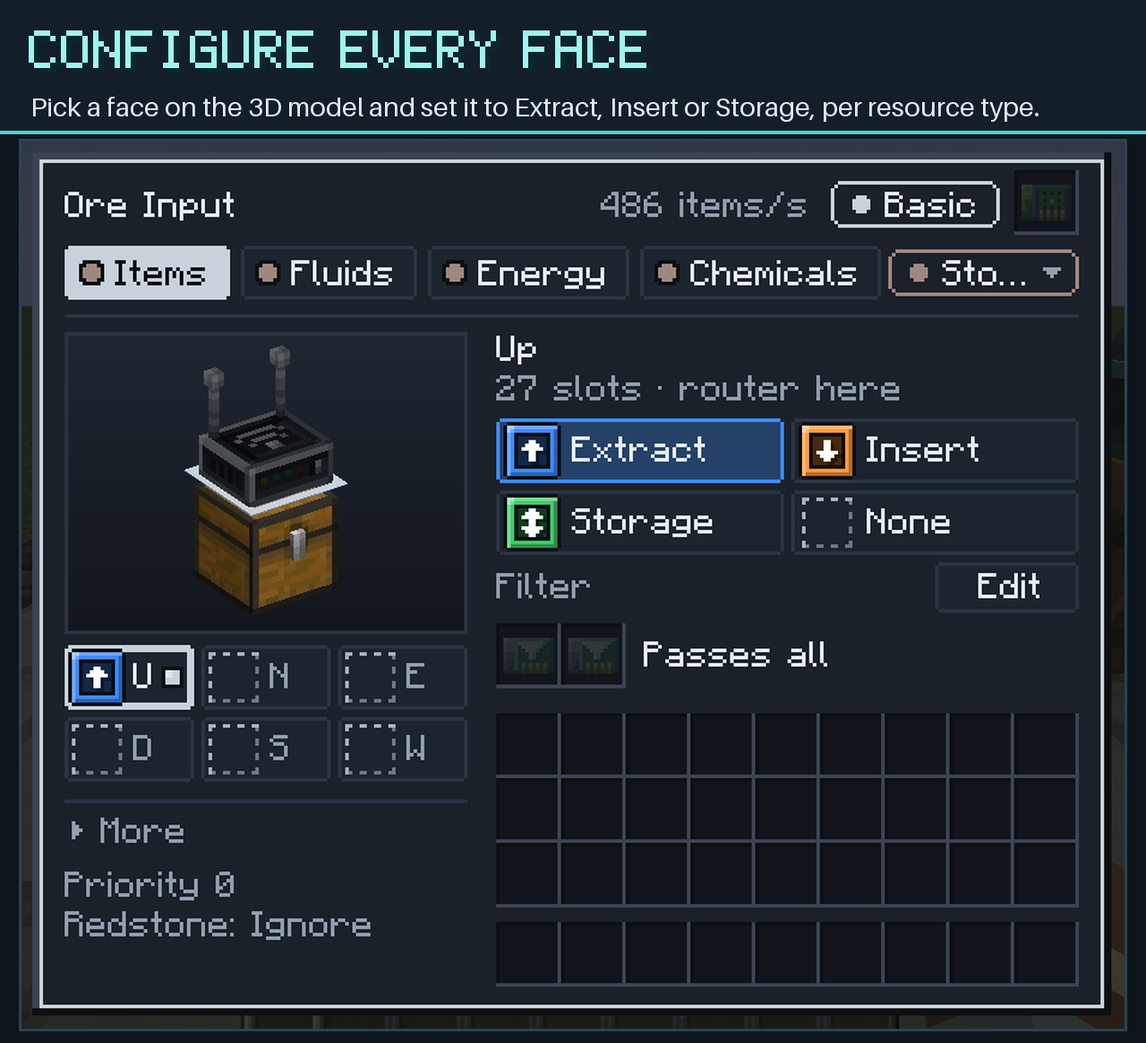
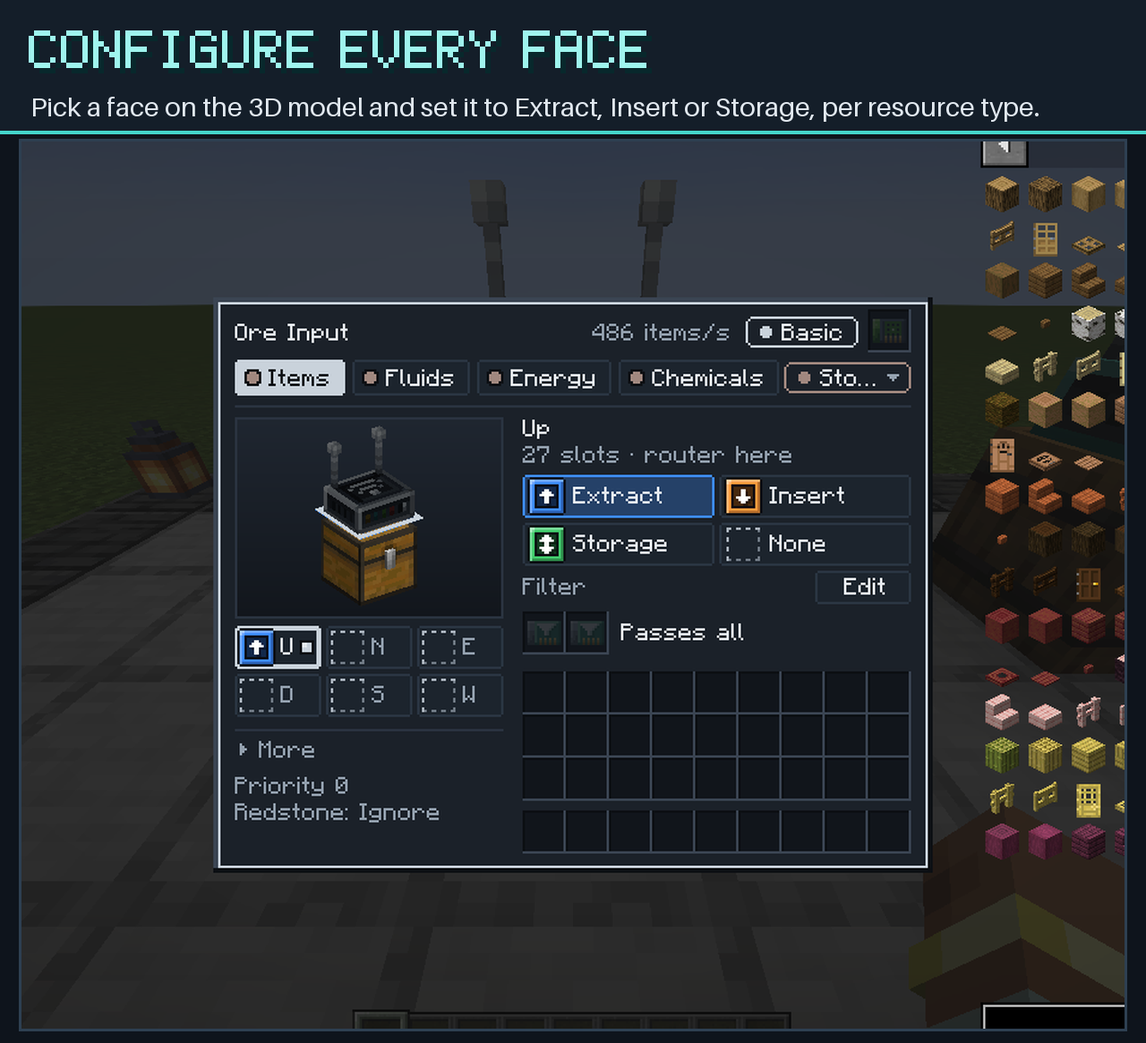
Versão 1.0.0: changelog, descrição e imagens do CurseForge
Vitrine com os quatro armazenamentos, a tela do Baú e as abas Tags e
Regra do filtro; imagens novas da descrição e changelog da 1.0.0.

diff --git a/src/main/java/io/github/matheusanbs/wirelessautomate/client/DevEndToEnd.java b/src/main/java/io/github/matheusanbs/wirelessautomate/client/DevEndToEnd.java
@@ -101,6 +101,8 @@ import io.github.matheusanbs.wirelessautomate.storage.StorageBatteryBlockEntity;
 import io.github.matheusanbs.wirelessautomate.storage.StorageBlock;
 import io.github.matheusanbs.wirelessautomate.storage.StorageChestBlockEntity;
 import io.github.matheusanbs.wirelessautomate.storage.StorageKind;
+import io.github.matheusanbs.wirelessautomate.network.Chemicals;
+import io.github.matheusanbs.wirelessautomate.storage.StorageChemicalTankBlockEntity;
 import io.github.matheusanbs.wirelessautomate.storage.StorageTankBlockEntity;
 import net.neoforged.neoforge.fluids.FluidStack;
 
@@ -992,6 +994,7 @@ public final class DevEndToEnd {
     private static final List<BlockPos> showRouters = new ArrayList<>();
     private static BlockPos showInput;
     private static BlockPos showFurnace;
+    private static final List<BlockPos> showStorage = new ArrayList<>();
 
     /**
      * Fotos da página do CurseForge: uma pequena fábrica (fornalhas acesas com roteadores dos quatro
@@ -1056,11 +1059,50 @@ public final class DevEndToEnd {
             click(widget(byMessage(face(Direction.UP)), "face Cima"));
         }, () -> find(byMessage(Component.translatable("gui.wirelessautomate.router.filter.edit"))) != null, () -> "Editar"));
         list.add(capture("s4-roteador-fornalha"));
-        list.add(new Step("abrir o filtro", STEP_TIMEOUT_MS,
-                () -> click(widget(byMessage(Component.translatable("gui.wirelessautomate.router.filter.edit")), "Editar")),
-                () -> Minecraft.getInstance().screen instanceof FilterScreen, () -> "tela " + describe(Minecraft.getInstance().screen)));
+        list.add(new Step("abrir o filtro", STEP_TIMEOUT_MS, () -> {
+            UUID playerId = Minecraft.getInstance().player.getUUID();
+            onServer(server -> {
+                showcaseInventory(server, server.getPlayerList().getPlayer(playerId));
+                return null;
+            });
+            click(widget(byMessage(Component.translatable("gui.wirelessautomate.router.filter.edit")), "Editar"));
+        }, () -> Minecraft.getInstance().screen instanceof FilterScreen, () -> "tela " + describe(Minecraft.getInstance().screen)));
         list.add(capture("s5-filtro"));
+        list.add(new Step("filtro: tags do minério de ferro", STEP_TIMEOUT_MS, () -> {
+            FilterScreen screen = filterScreen();
+            screen.previewInspect(new ItemStack(Items.RAW_IRON));
+            List<String> labels = screen.candidateLabels();
+            for (String label : List.of("#c:raw_materials", "#c:raw_materials/iron")) {
+                if (labels.contains(label)) {
+                    screen.previewCheck(labels.indexOf(label));
+                }
+            }
+            int[] row = screen.candidateCenter(Math.max(0, labels.indexOf("#c:raw_materials")));
+            moveMouse(row[0], row[1]);
+        }, () -> filterScreen().tab() == FilterScreen.Tab.TAGS, () -> "aba " + filterScreen().tab()));
+        list.add(wait("prévia da tag", 5));
+        list.add(capture("s5b-filtro-tags"));
+        list.add(new Step("filtro: regra de reparo", STEP_TIMEOUT_MS, () -> {
+            filterScreen().previewRule(ItemRule.EMPTY.withFlag(ItemRule.Property.ENCHANTED, true)
+                    .withDurability(java.util.Optional.of(new ItemRule.Durability(false, 50))));
+            moveMouse(0, 0);
+        }, () -> filterScreen().tab() == FilterScreen.Tab.RULE, () -> "aba " + filterScreen().tab()));
+        list.add(wait("inventário aceso", 5));
+        list.add(capture("s5c-filtro-regra"));
         list.add(close("fechar o filtro"));
+        // Os quatro armazenamentos do mod, cheios, com roteadores.
+        list.add(showCamera("câmera nos armazenamentos", 13.5, 2.2, -1.2, 180f, 30f));
+        list.add(wait("armazenamentos", 40));
+        list.add(capture("s9-armazenamentos"));
+        list.add(showCamera("perto do Baú", 11, 0, -3, 180f, 40f));
+        list.add(new Step("interface de volta 3", STEP_TIMEOUT_MS, () -> Minecraft.getInstance().options.hideGui = false,
+                () -> true, () -> "interface"));
+        list.add(new Step("abrir o Baú Wireless", STEP_TIMEOUT_MS, () -> useOn(showStorage.get(0)),
+                () -> Minecraft.getInstance().screen instanceof StorageListScreen screen && screen.shownCount() > 20,
+                () -> "tela " + describe(Minecraft.getInstance().screen)));
+        list.add(wait("lista do Baú", 10));
+        list.add(capture("s10-bau"));
+        list.add(close("fechar o Baú"));
         // Tablet: lista e mapa.
         list.add(new Step("Tablet na mão (vitrine)", STEP_TIMEOUT_MS, () -> {
             UUID playerId = Minecraft.getInstance().player.getUUID();
@@ -1182,8 +1224,104 @@ public final class DevEndToEnd {
             router(server, buffer.above()).setMode(ResourceType.ITEM, Direction.UP, PortMode.BOTH);
             router(server, output.above()).setMode(ResourceType.ITEM, Direction.UP, PortMode.INSERT);
             refillShowcase(level);
+            showcaseStorage(server, level, storage.id());
             return null;
         });
+    }
+
+    /**
+     * Os quatro armazenamentos do mod numa fileira a leste da fábrica, num piso próprio: Baú
+     * Ultimate com dezenas de tipos e milhões de itens, Tanque, Bateria e Tanque Químico (com o
+     * Mekanism), cada um com um roteador em cima.
+     */
+    private static void showcaseStorage(MinecraftServer server, ServerLevel level, UUID network) {
+        for (int x = 9; x <= 18; x++) {
+            for (int z = -7; z <= -2; z++) {
+                boolean edge = x == 9 || x == 18 || z == -7 || z == -2;
+                level.setBlockAndUpdate(showBase.offset(x, -1, z),
+                        (edge ? Blocks.POLISHED_DEEPSLATE : Blocks.SMOOTH_STONE).defaultBlockState());
+            }
+        }
+        StorageKind[] kinds = {StorageKind.CHEST, StorageKind.TANK, StorageKind.BATTERY, StorageKind.CHEMICAL_TANK};
+        RouterTier[] tiers = {RouterTier.ULTIMATE, RouterTier.ELITE, RouterTier.ADVANCED, RouterTier.ELITE};
+        String[] names = {"Main Storage", "Lava Tank", "Base Battery", "Hydrogen"};
+        showStorage.clear();
+        for (int i = 0; i < kinds.length; i++) {
+            if (kinds[i] == StorageKind.CHEMICAL_TANK && !Chemicals.LOADED) {
+                continue;
+            }
+            BlockPos pos = showBase.offset(11 + 2 * i, 0, -5);
+            level.setBlockAndUpdate(pos, ModBlocks.STORAGE.get(kinds[i]).get().defaultBlockState()
+                    .setValue(RouterBlock.TIER, tiers[i]));
+            showStorage.add(pos);
+            switch (level.getBlockEntity(pos)) {
+                case StorageChestBlockEntity chest -> {
+                    Item[] items = {Items.COBBLESTONE, Items.IRON_INGOT, Items.GOLD_INGOT, Items.COPPER_INGOT, Items.DIAMOND,
+                            Items.EMERALD, Items.REDSTONE, Items.LAPIS_LAZULI, Items.COAL, Items.QUARTZ, Items.OAK_LOG,
+                            Items.SPRUCE_LOG, Items.BIRCH_LOG, Items.DIRT, Items.SAND, Items.GRAVEL, Items.GLASS,
+                            Items.RAW_IRON, Items.RAW_GOLD, Items.RAW_COPPER, Items.NETHERITE_INGOT, Items.ANCIENT_DEBRIS,
+                            Items.OBSIDIAN, Items.GLOWSTONE_DUST, Items.AMETHYST_SHARD, Items.BONE, Items.STRING,
+                            Items.GUNPOWDER, Items.ENDER_PEARL, Items.BLAZE_ROD, Items.SLIME_BALL, Items.WHEAT,
+                            Items.CARROT, Items.POTATO, Items.SUGAR_CANE, Items.BAMBOO, Items.KELP, Items.CLAY_BALL,
+                            Items.FLINT, Items.LEATHER, Items.FEATHER, Items.EGG, Items.APPLE, Items.TORCH};
+                    long amount = 12_600_000L;
+                    for (Item item : items) {
+                        chest.storage().insert(new ItemStack(item), amount, false);
+                        amount = Math.max(1, amount * 7 / 10);
+                    }
+                }
+                case StorageTankBlockEntity tank -> {
+                    tank.storage().insert(new FluidStack(Fluids.LAVA, 1), 48_000_000L, false);
+                    tank.storage().insert(new FluidStack(Fluids.WATER, 1), 120_000_000L, false);
+                }
+                case StorageBatteryBlockEntity battery -> battery.store().insert(2_500_000_000L, false);
+                case StorageChemicalTankBlockEntity chemical ->
+                        chemical.storage().insert(ResourceLocation.parse("mekanism:hydrogen"), 64_000_000L, false);
+                default -> {
+                }
+            }
+            placeShowRouter(server, level, pos, "ultimate", names[i], network);
+            RouterBlockEntity router = router(server, pos.above());
+            ResourceType type = switch (kinds[i]) {
+                case CHEST -> ResourceType.ITEM;
+                case TANK -> ResourceType.FLUID;
+                case BATTERY -> ResourceType.ENERGY;
+                case CHEMICAL_TANK -> ResourceType.CHEMICAL;
+            };
+            router.setMode(type, Direction.UP, PortMode.BOTH);
+        }
+    }
+
+    /**
+     * Inventário de exemplo para as fotos do filtro: ferramentas encantadas gastas e novas, uma
+     * comum gasta, livro encantado e minérios, para a regra "Encantado + durabilidade < 50%" acender
+     * só as que vão para o reparo.
+     */
+    private static void showcaseInventory(MinecraftServer server, ServerPlayer player) {
+        var enchantments = server.registryAccess().lookupOrThrow(Registries.ENCHANTMENT);
+        ItemStack wornPick = new ItemStack(Items.DIAMOND_PICKAXE);
+        wornPick.enchant(enchantments.getOrThrow(net.minecraft.world.item.enchantment.Enchantments.FORTUNE), 3);
+        wornPick.setDamageValue(1300);
+        ItemStack newPick = new ItemStack(Items.DIAMOND_PICKAXE);
+        newPick.enchant(enchantments.getOrThrow(net.minecraft.world.item.enchantment.Enchantments.EFFICIENCY), 5);
+        ItemStack wornSword = new ItemStack(Items.NETHERITE_SWORD);
+        wornSword.enchant(enchantments.getOrThrow(net.minecraft.world.item.enchantment.Enchantments.SHARPNESS), 5);
+        wornSword.setDamageValue(1500);
+        ItemStack plainWorn = new ItemStack(Items.IRON_PICKAXE);
+        plainWorn.setDamageValue(200);
+        ItemStack wornChest = new ItemStack(Items.DIAMOND_CHESTPLATE);
+        wornChest.enchant(enchantments.getOrThrow(net.minecraft.world.item.enchantment.Enchantments.PROTECTION), 4);
+        wornChest.setDamageValue(400);
+        ItemStack[] items = {wornPick, newPick, wornSword, plainWorn, wornChest,
+                net.minecraft.world.item.EnchantedBookItem.createForEnchantment(new net.minecraft.world.item.enchantment.EnchantmentInstance(
+                        enchantments.getOrThrow(net.minecraft.world.item.enchantment.Enchantments.MENDING), 1)),
+                new ItemStack(Items.RAW_IRON, 48), new ItemStack(Items.RAW_GOLD, 23), new ItemStack(Items.COAL, 64),
+                new ItemStack(Items.IRON_ORE, 12), new ItemStack(Items.DEEPSLATE_DIAMOND_ORE, 3), new ItemStack(Items.TORCH, 40)};
+        player.getInventory().clearContent();
+        for (int i = 0; i < items.length; i++) {
+            player.getInventory().setItem(9 + i, items[i]);
+        }
+        player.getInventory().setItem(0, new ItemStack(Items.DIAMOND_SWORD));
     }
 
     /** Entrada cheia e destinos vazios, para a tela mostrar itens passando. */
@@ -1619,7 +1757,14 @@ public final class DevEndToEnd {
 
     /** Alguns quadros depois (mouse fora da tela, sem dicas), salva a captura. */
     private static Step capture(String file) {
-        return new Step("captura " + file, STEP_TIMEOUT_MS, () -> moveMouse(0, 0), () -> {
+        return new Step("captura " + file, STEP_TIMEOUT_MS, () -> {
+            moveMouse(0, 0);
+            if (SHOWCASE != null) {
+                // vitrine: sem avisos de conquista nem mensagens do chat por cima das telas
+                Minecraft.getInstance().getToasts().clear();
+                Minecraft.getInstance().gui.getChat().clearMessages(false);
+            }
+        }, () -> {
             if (stepTicks < 6) {
                 return false;
             }

diff --git a/scripts/curseforge/gerar_imagens.py b/scripts/curseforge/gerar_imagens.py
@@ -191,9 +191,18 @@ DESTAQUES = [
     ("feature-2-router", "Configure every face",
      "Pick a face on the 3D model and set it to Extract, Insert or Storage, per resource type.",
      VITRINE / "s3-roteador.png", (180, 30, 1100, 770)),
-    ("feature-3-filters", "Unlimited filters",
-     "Exact items, tags and whole mods, whitelist or blacklist, with stock limits. JEI drag and drop.",
-     VITRINE / "s5-filtro.png", (230, 30, 1050, 770)),
+    ("feature-3-filters", "Tags in one click",
+     "Put any item in the inspector to see and check all its tags, or search every tag in the game.",
+     VITRINE / "s5b-filtro-tags.png", (270, 120, 1010, 680)),
+    ("feature-8-rules", "Property rules",
+     "Any enchanted item, tools under 50% durability... and your inventory lights up.",
+     VITRINE / "s5c-filtro-regra.png", (270, 120, 1010, 680)),
+    ("feature-9-storage", "Storage of its own",
+     "Wireless Chest, Tank, Battery and Chemical Tank: billions per operation between them.",
+     VITRINE / "s9-armazenamentos.png", (230, 250, 1110, 640)),
+    ("feature-10-chest", "Wireless Chest",
+     "Unlimited item types in a searchable, resizable list. Keeps everything when broken.",
+     VITRINE / "s10-bau.png", (365, 140, 910, 660)),
     ("feature-5-area", "Link whole areas at once",
      "The Linker and the Configurator work on a marked area: one click for a whole factory.",
      VITRINE / "s2-vinculador-area.png", (60, 250, 1220, 620)),

diff --git a/docs/progresso.md b/docs/progresso.md
@@ -6,7 +6,7 @@ Legenda: ✅ pronto e testado · 🟡 parcial · ⬜ não começado
 
 ## Resumo
 
-**Etapa atual (8/10/2026): 0.1.0 publicada no CurseForge (ID 1732160); 0.1.1 pronta no `main` com a auditoria de performance aplicada, falta enviar.** Build com 101 testes JUnit e 115 + 5 GameTests (comuns + químicos) passando, e2e OK (308 linhas) depois de todas as mudanças.
+**Etapa atual (8/10/2026): 1.0.0 pronta no `main`, a versão final segundo o dono, falta enviar ao CurseForge (ID 1732160; lá está a 0.1.0).** A 1.0 junta a 0.1.1 (auditoria de performance), os armazenamentos do mod e o filtro v2. Build com 105 JUnit e 148 + 7 GameTests (comuns + químicos) passando, e2e OK (411 passos) e vitrine refeita.
 
 O motor move itens, fluidos e energia por redes, com prioridade, round-robin, redstone, vazão e alcance por tier, destinos dormindo e orçamento de tempo por tick, já otimizado pelo benchmark. Cada aba do roteador escolhe a sua rede. Há tela do roteador (visor 3D, faces, filtro, cartões, upgrade), filtros com tela e Cartão de Filtro, JEI opcional, receitas vanilla, upgrade de chunk loading, Tablet de rede (lista, mapa, estatísticas, redes, grupos com pausar), Vinculador com modo Área, abas marcadas (inclusive Químicos) e desvincular, e Configurador sem tela (pincel e colar em área na mesma máquina, todas as abas ou um tipo só). Roteador colocado nasce sem rede. Químicos do Mekanism, livro-guia do GuideME e texturas por script também estão prontos. Falta: o teste manual do JEI, AE2/RS2 e o balanceamento das receitas.
 
@@ -39,11 +39,11 @@ Feitos: Tablet de rede (`network/NodeIndex.java`, `menu/Tablet*`, `client/Tablet
 
 ## Próximo passo
 
-1. Enviar a 0.1.1 ao CurseForge: gerar o jar (`./gradlew build`, sai em `build/libs/wirelessautomate-0.1.1.jar`), changelog em `docs/curseforge/changelog-0.1.1.md` (já com a seção de performance). Ao lançar: NeoForge, 1.21.1, Java 21, Client and Server; a descrição vem de `docs/curseforge/descricao.md`.
+1. Enviar a 1.0.0 ao CurseForge: o jar é `build/libs/wirelessautomate-1.0.0.jar`; changelog em `docs/curseforge/changelog-1.0.0.md` (a 0.1.1 nunca foi enviada, então cole também o de `changelog-0.1.1.md` ou junte os dois). Ao lançar: NeoForge, 1.21.1, Java 21, Client and Server, Release. Descrição em `docs/curseforge/descricao.md`: as imagens novas (`feature-3-filters`, `feature-8-rules`, `feature-9-storage`, `feature-10-chest`) estão com o nome do arquivo no lugar do link; suba-as no CurseForge e troque pelos links. As fotos vêm de `WA_SHOWCASE=run/showcase ./gradlew runClient` e `python scripts/curseforge/gerar_imagens.py`.
 2. Rodar o `./scripts/bench.sh` na máquina local para ter os números de antes e depois da auditoria lá também (os de `docs/benchmark.md` são do container da nuvem).
 3. Testar no jogo os químicos com máquinas de verdade do Mekanism (lembrar de ligar as faces delas com a ferramenta de configuração do Mekanism) e ver as texturas novas.
 4. Depois: balanceamento das receitas, atalhos de AE2/RS2, e o teste num ATM10 real com o jar de `build/libs/`.
-5. **0.2: armazenamento do mod**, no `main` (o jar gerado agora já inclui o Baú; para enviar a 0.1.1 sem ele, gere o jar do commit `6c3a35d`). Os quatro estão prontos (Baú, Tanque, Bateria e Tanque Químico). O Baú: tiers com capacidade pela config (`storage.chestCapacity`), atalho no roteador (Baú → Baú numa chamada por tipo; Baú ↔ inventário comum em pilhas, sem varrer o destino), visão `IItemHandler`, tela em lista com busca (`@mod`), ordenação e cliques, filtro de entrada (o estoque vira "guardar até N"), quebrar e colocar com o conteúdo e o filtro, upgrade pelos Cartões no mundo e na bancada (também no JEI), comparador, receita vanilla, página no guia, README, 12 GameTests e a seção do Baú no e2e. Tanque, Bateria e Tanque Químico no mesmo molde (base `StorageBlockEntity`, `KeyedStorage<K>`, tela em lista genérica e a da Bateria), sem atalho novo no motor: as APIs de fluido e energia já passam até 2^31 por chamada e a de químico é em `long`. Falta: os armazenamentos no `DevScreenshot` e na vitrine do CurseForge, o changelog da 0.2 e testar no jogo com o Mekanism de verdade (recipientes de químico na tela).
+5. **Armazenamento do mod (entrou na 1.0).** Os quatro estão prontos (Baú, Tanque, Bateria e Tanque Químico). O Baú: tiers com capacidade pela config (`storage.chestCapacity`), atalho no roteador (Baú → Baú numa chamada por tipo; Baú ↔ inventário comum em pilhas, sem varrer o destino), visão `IItemHandler`, tela em lista com busca (`@mod`), ordenação e cliques, filtro de entrada (o estoque vira "guardar até N"), quebrar e colocar com o conteúdo e o filtro, upgrade pelos Cartões no mundo e na bancada (também no JEI), comparador, receita vanilla, página no guia, README, 12 GameTests e a seção do Baú no e2e. Tanque, Bateria e Tanque Químico no mesmo molde (base `StorageBlockEntity`, `KeyedStorage<K>`, tela em lista genérica e a da Bateria), sem atalho novo no motor: as APIs de fluido e energia já passam até 2^31 por chamada e a de químico é em `long`. Falta: os armazenamentos no `DevScreenshot` e testar no jogo com o Mekanism de verdade (recipientes de químico na tela). A vitrine já tem a fileira dos quatro e a tela do Baú.
 
 **No Windows:** o `scripts/bench.sh` roda pelo Git Bash com `JAVA_HOME` apontando para o JDK 21 (o padrão da máquina é o 17). O `e2e.sh` e o modo de captura dependem do `xvfb-run`; sem ele, rode o cliente direto (`WA_E2E="$PWD/run/e2e" ./gradlew runClient`): a janela aparece e o roteiro roda sozinho. Num `run/` novo, a primeira execução para na tela de acessibilidade e o roteiro não começa; o `options.txt` fica com `onboardAccessibility:false` e a segunda execução passa.
 
@@ -92,6 +92,7 @@ Respondidas e registradas também na especificação ("Decisões tomadas"):
 
 | Data | O que foi feito |
 | --- | --- |
+| 2026-10-08 | **1.0.0** a pedido do dono ("versão final"): `mod_version=1.0.0`, changelog em `docs/curseforge/changelog-1.0.0.md`, descrição do CurseForge com o filtro v2, as regras e os armazenamentos. Vitrine (`WA_SHOWCASE`) com a fileira dos quatro armazenamentos, a tela do Baú e as abas Tags e Regra do filtro (inventário de exemplo; avisos e chat limpos antes das fotos); imagens novas `feature-3-filters`, `feature-8-rules`, `feature-9-storage` e `feature-10-chest`. |
 | 2026-10-08 | Filtro v2 a pedido do dono (maquete aprovada em `docs/preview/filtro-v2.html`): tela em lista redimensionável em torno do centro, com busca e abas Entrada, Tags (inspetor: as tags de um item para marcar, por cursor, JEI, Ver tags ou Ctrl + clique; busca em todas as tags com contagem e prévia; `@mod`), Regra e Mais. Regras por propriedade (`ItemRule`/`RuleEntry`: encantado, danificado, renomeado, poção, empilhável, conteúdo, encantamento com nível, durabilidade ≥/<, "só em" tag ou mod), editáveis, com o inventário aceso no que pegam. `FilterEntriesPayload` (protocolo 7). 148 + 7 GameTests (6 novos em `RuleFilterGameTests`), e2e com 411 passos. |
 | 2026-10-08 | Pedido do dono: o Tablet não contava químicos. Estatísticas com a vazão de químicos por rede e no total (quarta coluna, só com o Mekanism; colunas com reticências para não vazar), `NetworkView.chemicalRate`, protocolo 6. A tela do roteador já mostrava. 142 + 7 GameTests. |
 | 2026-10-08 | Pedido do dono: a Bateria parava em ~2,1 bilhões de FE por tick (o `int` do `IEnergyStorage`). `BulkEnergy` e `BulkFluids` em `long` no Tanque e na Bateria, usados pelo `EnergyTransfer` e pelo `FluidTransfer` no lado que for do mod (o outro lado continua em `int`); Tanque com roteadores em duas faces não move para ele mesmo. GameTests: 50 bilhões de FE e 30 bilhões de mB em até 10 ticks. 142 + 7 GameTests. |

diff --git a/docs/curseforge/descricao.md b/docs/curseforge/descricao.md
@@ -1,6 +1,6 @@
 ![Wireless Automate](https://media.forgecdn.net/attachments/2023/182/banner-png.png)
 
-**Wireless Automate** moves items, fluids, energy and Mekanism chemicals between machines **without pipes**. Attach a router to a machine, choose what each face of the machine does, and every router on the same network trades with the others, near or far.
+**Wireless Automate** moves items, fluids, energy and Mekanism chemicals between machines **without pipes**. Attach a router to a machine, choose what each face of the machine does, and every router on the same network trades with the others, near or far. It also brings **storage blocks of its own** that move billions per operation, and filters that pick tags in one click or match **any enchanted item**.
 
 It was built for large modpacks: instead of every block ticking on its own, one central manager moves everything within a small time budget per tick, so hundreds of machines don't turn into lag.
 
@@ -21,7 +21,16 @@ It was built for large modpacks: instead of every block ticking on its own, one 
 
 Exact items, tags (`#c:ores`) and whole mods (`@mekanism`), as a whitelist or blacklist, with **stock limits** ("keep 64 in the source", "accept up to 16 in the destination"). Add entries by Shift + clicking your inventory or by dragging from **JEI**. Filter Cards carry a whole filter to reuse on other faces.
 
-![Unlimited filters](https://media.forgecdn.net/attachments/2023/185/feature-3-filters-png.png)
+- **Tag inspector:** put any item in the inspector and every tag it has shows up, ready to check and add. Or search every tag in the game, with how many items each one matches and a preview.
+- A resizable window with the entries in a searchable list.
+
+![Tags in one click](feature-3-filters.png)
+
+### Property rules
+
+Match items by what they **are**, not which item they are: **any enchanted item**, damaged or undamaged, renamed, potions, unstackable, shulker boxes with contents, an enchantment with a minimum level (Fortune ≥ III) or the remaining durability (send tools under 25% to repair). Limit a rule to a tag or mod: Enchanted + `#c:armors` = enchanted armor only. Your inventory lights up on what the rule matches before you add it.
+
+![Property rules](feature-8-rules.png)
 
 ### Four tiers
 
@@ -38,6 +47,25 @@ Upgrade Cards raise a router's throughput and range, one tier at a time. Upgrade
 
 *Per face and per resource type. Server owners can change every value in the config.*
 
+### Wireless storage
+
+![Storage of its own](feature-9-storage.png)
+
+Four storage blocks made for the router: the **Wireless Chest** (unlimited item types, no slots), the **Wireless Tank**, the **Wireless Battery** and, with Mekanism, the **Wireless Chemical Tank**. Between two of them, a router moves a whole item type in a single operation (**12 million items in one tick**) and fluids and energy by the billions. For every other mod they are a normal inventory, tank or battery.
+
+| Tier | Chest (items) | Tank and Chemical Tank | Battery |
+| --- | --- | --- | --- |
+| Basic | 262,144 | 1,000 B | 16M FE |
+| Advanced | 16,777,216 | 64,000 B | 1G FE |
+| Elite | 1,073,741,824 | 4,000,000 B | 64G FE |
+| Ultimate | Unlimited | Unlimited | Unlimited |
+
+- Upgrade with the same Upgrade Cards as the router, without losing the contents.
+- **Break it and the contents go with the item**, like a shulker box, tier included.
+- Searchable, sortable and resizable screen; an input filter decides what may enter, by any path; comparator output.
+
+![Wireless Chest](feature-10-chest.png)
+
 ### Tools for big builds
 
 ![Link whole areas at once](https://media.forgecdn.net/attachments/2023/187/feature-5-area-png.png)
@@ -50,7 +78,7 @@ Upgrade Cards raise a router's throughput and range, one tier at a time. Upgrade
 
 ![Network Tablet](https://media.forgecdn.net/attachments/2023/188/feature-6-tablet-png.png)
 
-Every router of every network, from anywhere: search and filter by role, a top-down map, per-network statistics, and groups to pause and resume a whole system at once. Click a node to open its screen remotely.
+Every router of every network, from anywhere: search and filter by role, a top-down map, per-network statistics (items, fluids, energy and chemicals), and groups to pause and resume a whole system at once. Click a node to open its screen remotely.
 
 ### Built-in guide book
 
@@ -79,8 +107,8 @@ All recipes use vanilla items.
 | Mod | What you get |
 | --- | --- |
 | **Any mod with standard NeoForge storage** | Items, fluids and energy work with any machine, chest or tank that exposes NeoForge's standard item, fluid and energy handlers, which covers most tech and storage mods (tested with Sophisticated Storage and Mekanism). |
-| **Mekanism** (optional) | A **Chemicals** tab for gases, infuse types, pigments and slurries. Remember to enable the face in the Mekanism machine's side configuration. |
-| **JEI** (optional) | Drag and drop (or Shift + click) ingredients into filters, without having the item; the router upgrade in the crafting table shows in JEI. |
+| **Mekanism** (optional) | A **Chemicals** tab for gases, infuse types, pigments and slurries, and the Wireless Chemical Tank. Remember to enable the face in the Mekanism machine's side configuration. |
+| **JEI** (optional) | Drag and drop (or Shift + click) ingredients into filters without having the item, or onto the tag inspector; router and storage upgrades in the crafting table show in JEI. |
 | **GuideME** (optional) | The in-game guide book. |
 
 ## Performance

diff --git a/README.md b/README.md
@@ -2,7 +2,7 @@
 
 Transporte wireless de itens, fluidos, energia e químicos para **NeoForge 1.21.1** (Java 21), feito para o ATM10. A meta é ser o transporte mais rápido do pack e o mais leve em TPS: um gerenciador central, sem tick por bloco, com teto de tempo por tick.
 
-**Estado:** versão 0.1.0 publicada no CurseForge (projeto 1732160). Licença All Rights Reserved.
+**Estado:** versão 1.0.0 pronta (no CurseForge, projeto 1732160, está a 0.1.0). Licença All Rights Reserved.
 
 ## Recursos
 
@@ -10,14 +10,14 @@ Transporte wireless de itens, fluidos, energia e químicos para **NeoForge 1.21.
 - **Redes por aba:** cada aba do roteador (Itens, Fluidos, Energia, Químicos) entra na sua própria rede; tudo do mesmo tipo na mesma rede troca entre si.
 - **Modos por face e por tipo:** Extrair, Inserir, Armazém ou Nenhum, com prioridade, round-robin no empate e controle por redstone.
 - **Filtros sem limite:** item ou fluido exato, tag e mod, lista branca ou negra, limite de estoque, e Cartões de Filtro (dois slots por face e por tipo, copiáveis na bancada). A tela é redimensionável: ponha um item no inspetor para ver e marcar todas as tags dele, ou busque em todas as tags do jogo com a prévia dos itens.
-- **Regras por propriedade** (0.2): pegue qualquer item encantado, danificado, renomeado, com poção, não empilhável ou com conteúdo, um encantamento com nível mínimo ou a durabilidade abaixo de X%, limitado a uma tag ou mod (só armadura encantada, ferramentas para o reparo).
+- **Regras por propriedade** (1.0): pegue qualquer item encantado, danificado, renomeado, com poção, não empilhável ou com conteúdo, um encantamento com nível mínimo ou a durabilidade abaixo de X%, limitado a uma tag ou mod (só armadura encantada, ferramentas para o reparo).
 - **Quatro tiers**, subidos com os Cartões de Upgrade Avançado, Elite e Ultimate (não há cartão Básico, o roteador já nasce Básico), clicando no roteador colocado ou juntando os dois na bancada.
 - **Vinculador:** escolhe a rede ativa e põe roteadores nela, um a um ou por área, nas abas marcadas (Itens, Fluidos, Energia e, com o Mekanism, Químicos); em "Nenhuma (desvincular)", tira essas abas da rede.
 - **Configurador:** copia a configuração de um roteador e cola em outro, ou em todos os de uma área presos ao mesmo tipo de máquina; todas as abas ou só um tipo (Shift + roda do mouse).
 - **Upgrade de chunk loading:** mantém carregado o chunk do roteador e o da máquina, com limite por jogador na config.
 - **Tablet de Rede:** lista, mapa, estatísticas, redes e grupos à distância, e abre a tela do roteador de longe.
-- **Baú Wireless** (0.2): guarda itens por tipo e quantidade, sem slots e com tipos ilimitados, até a capacidade do tier (262.144, 16.777.216, 1.073.741.824 itens e sem limite no Ultimate), subida com os mesmos Cartões de Upgrade. Entre dois Baús, o roteador move um tipo inteiro numa operação só. Tem tela em lista com busca (`@mod`) e ordenação, filtro de entrada (o estoque vira "guardar até N") e sinal de comparador. Quebrado, leva o conteúdo e o filtro no item. Para os outros mods, é um inventário comum.
-- **Tanque, Bateria e Tanque Químico Wireless** (0.2): o mesmo molde do Baú para fluidos (vários por tanque, até 4 bilhões de mB no Elite), energia (até 64 bilhões de FE no Elite) e químicos do Mekanism (só com ele). Sem limite no Ultimate. O Tanque troca baldes direto no bloco e pela tela (recipientes no cursor), a Bateria mostra a carga e a variação por tick. Para os outros mods e para o roteador, são um tanque, uma bateria e um tanque de químico comuns, que já passam bilhões por chamada.
+- **Baú Wireless** (1.0): guarda itens por tipo e quantidade, sem slots e com tipos ilimitados, até a capacidade do tier (262.144, 16.777.216, 1.073.741.824 itens e sem limite no Ultimate), subida com os mesmos Cartões de Upgrade. Entre dois Baús, o roteador move um tipo inteiro numa operação só. Tem tela em lista com busca (`@mod`) e ordenação, filtro de entrada (o estoque vira "guardar até N") e sinal de comparador. Quebrado, leva o conteúdo e o filtro no item. Para os outros mods, é um inventário comum.
+- **Tanque, Bateria e Tanque Químico Wireless** (1.0): o mesmo molde do Baú para fluidos (vários por tanque, até 4 bilhões de mB no Elite), energia (até 64 bilhões de FE no Elite) e químicos do Mekanism (só com ele). Sem limite no Ultimate. O Tanque troca baldes direto no bloco e pela tela (recipientes no cursor), a Bateria mostra a carga e a variação por tick. Para os outros mods e para o roteador, são um tanque, uma bateria e um tanque de químico comuns, que já passam bilhões por chamada.
 - **Livro-guia (GuideME):** na aba criativa e entregue a cada jogador no primeiro login.
 
 | Tier | Itens/s | Fluido e químico (mB/s) | Energia (FE/t) | Alcance |

diff --git a/docs/curseforge/changelog-1.0.0.md b/docs/curseforge/changelog-1.0.0.md
@@ -1,0 +1,26 @@
+Wireless Automate 1.0: storage blocks of its own, a brand new filter screen and property rules.
+
+**Wireless storage** (new blocks)
+
+- **Wireless Chest:** stores items by type and amount, with no slots and unlimited types, up to the tier's capacity (262,144 · 16,777,216 · 1,073,741,824 items · unlimited on Ultimate). Searchable list (`@mod` works), sorting, click to take, Shift + click to send to your inventory. The window is resizable from its edges and corner and stays centered.
+- **Wireless Tank** (fluids by type, 1,000 B to unlimited), **Wireless Battery** (16M FE to unlimited) and **Wireless Chemical Tank** (Mekanism chemicals, only with Mekanism installed).
+- Same Upgrade Cards as the router: use the card on the block or combine them in a crafting table. The contents are kept.
+- Breaking a storage block keeps everything in the dropped item, tier included, in survival, in creative and without the right tool. If a block ever goes missing, operators can give its contents back with `/wa storage list` (click the row).
+- Input filter on every block (except the Battery): only what it accepts goes in, by any path. Comparator output.
+- **Throughput:** a router between two storage blocks moves a whole item type in one operation (12 million items in one tick), and fluids and energy are no longer capped at ~2.1 billion per call (tested with 50 billion FE and 30 billion mB). Other mods' machines still see a normal inventory, tank or battery.
+- Storage blocks are passive: all six faces are the same. Generators and pipes can push into them and pull from them; routers move things in and out.
+
+**Filters, redesigned**
+
+- New filter screen: entries in a list (icon, name, type, stock) with search, resizable like the Chest, with four tabs: **Entry**, **Tags**, **Rule** and **More**.
+- **Tag inspector:** put an item in the inspector slot (click it with the item on the cursor, drag it from JEI, Ctrl + click it in your inventory or use **See tags** on an entry) and every tag of that item shows up, plus its mod, to check and add at once.
+- **Tag search:** type part of a name to search every tag in the game, with how many items each one matches; hover a row to preview its items. `@` searches mods.
+- **Property rules** (items): match items by what they are, not which item they are. Each condition is any / yes / no: Enchanted (books included), Damaged, Renamed, Has potion, Stackable, Has contents; plus an enchantment with a minimum level (Fortune ≥ III), remaining durability (≥ or < a percentage) and "Only in" a tag or mod (Enchanted + `#c:armors` = enchanted armor only). Your inventory lights up on what the rule matches before you add it. Rules work with stock limits and blacklists, and can be edited later.
+- Filter Cards show rules in their tooltip.
+
+**Other changes**
+
+- Network Tablet: the Statistics tab now counts chemicals too (with Mekanism).
+- Guide book: new pages for the Wireless Chest, Tank, Battery and Chemical Tank, and an updated Filters page, in English and Portuguese.
+
+**Compatibility note:** 1.0 changes the network protocol. Server and clients must all run 1.0. Worlds from 0.1.x load normally.

diff --git a/docs/especificacao.md b/docs/especificacao.md
@@ -291,7 +291,7 @@ O v1 entrega o motor de transferência e a configuração essencial; o v2 comple
 - [x] Roteador direcional com itens, fluidos e energia, configurado por face da máquina
 - [x] Redes, rede ativa, prioridade, round-robin e redstone
 - [x] Filtros sem limite (inventário, JEI, tags, mod, estoque) e cartões
-- [x] Filtro v2 (0.2): tela em lista redimensionável, inspetor e busca de tags e regras por propriedade
+- [x] Filtro v2 (1.0): tela em lista redimensionável, inspetor e busca de tags e regras por propriedade
 - [x] Tiers e Cartões de Upgrade
 - [x] Configurador como pincel e Vinculador modo Único
 - [x] Profiler embutido e benchmark com Sophisticated Storage
